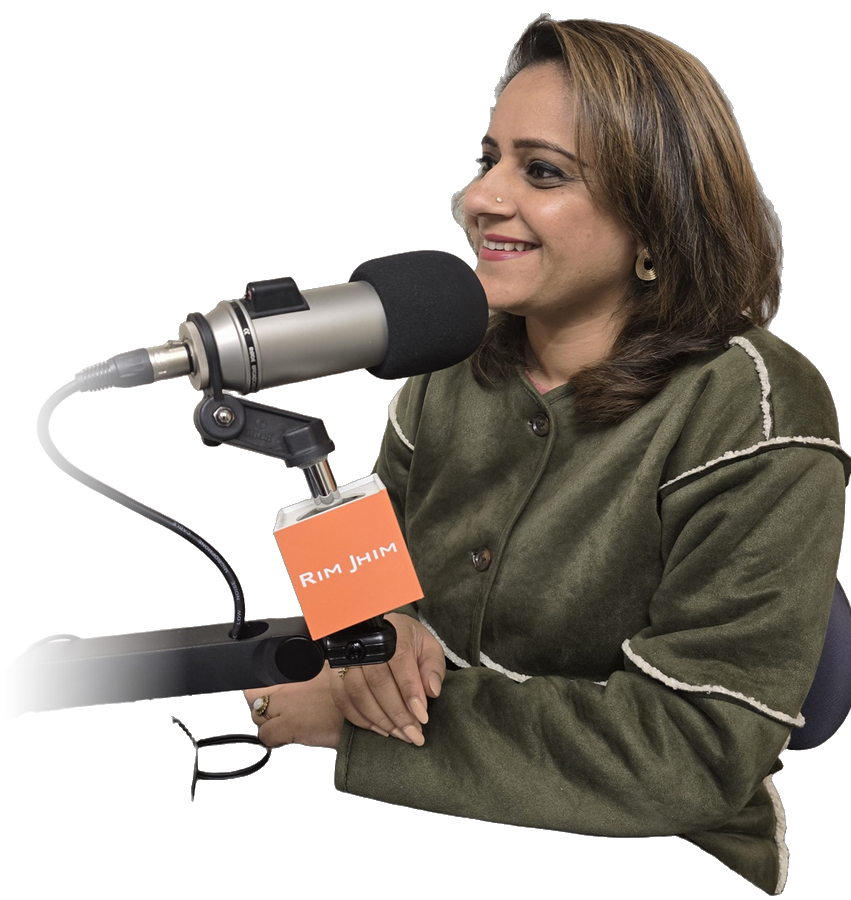
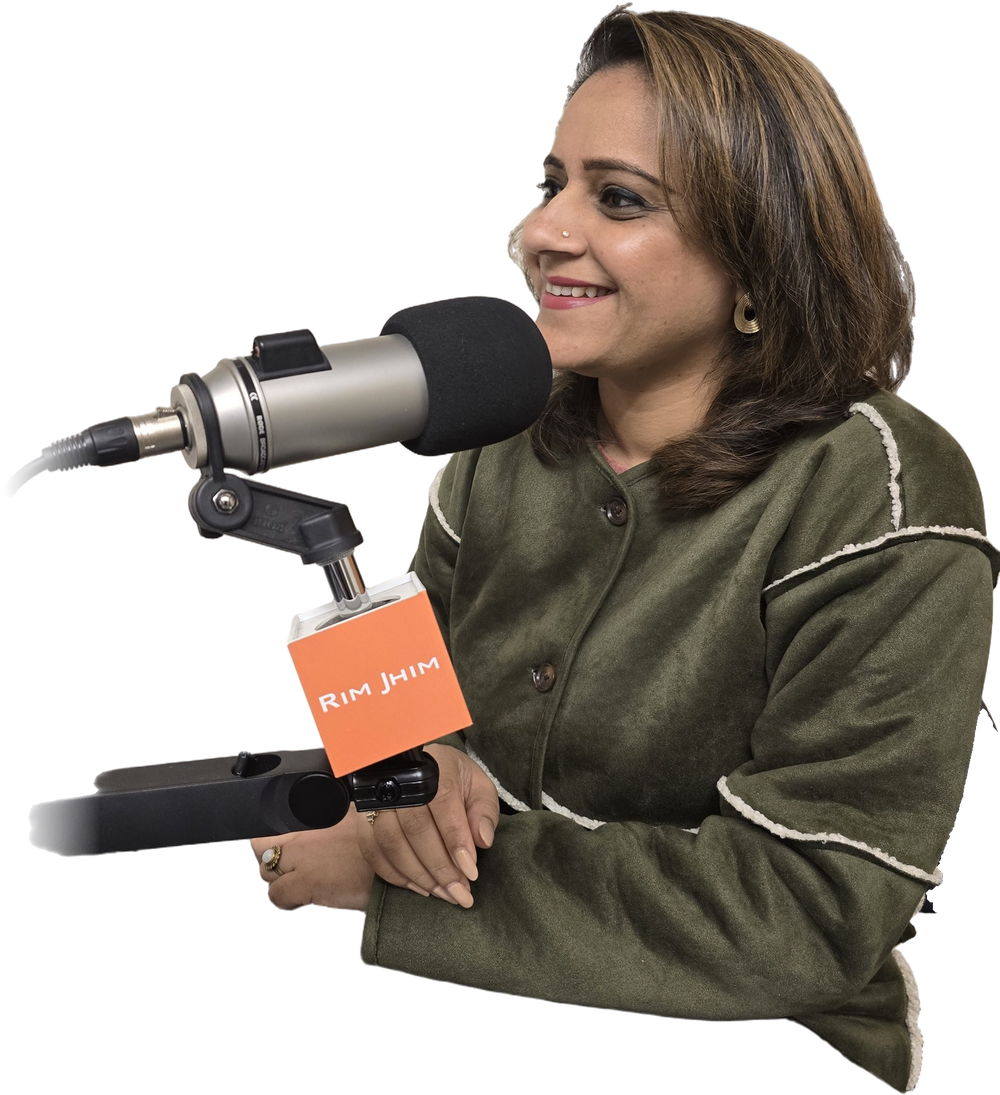
Preview v5.1: clean podcast cut-out back in footer, community copy no longer says free

diff --git a/index.html b/index.html
@@ -14,7 +14,7 @@
   <link rel="preconnect" href="https://fonts.googleapis.com">
   <link rel="preconnect" href="https://fonts.gstatic.com" crossorigin>
   <link href="https://fonts.googleapis.com/css2?family=Cormorant+Garamond:ital,wght@0,500;0,600;1,500;1,600&family=Inter:wght@400;500;600;700&family=Mrs+Saint+Delafield&display=swap" rel="stylesheet">
-  <link rel="stylesheet" href="home.css?v=17">
+  <link rel="stylesheet" href="home.css?v=18">
   <script type="application/ld+json">
   {"@context":"https://schema.org","@graph":[
     {"@type":"ProfessionalService","@id":"https://www.ashimaempowers.com/#business","name":"Ashima Empowers - Astrology & Holistic Centre","url":"https://www.ashimaempowers.com/","image":"https://www.ashimaempowers.com/assets/ashima-seated.jpg","priceRange":"$$",
@@ -235,13 +235,13 @@
 <section class="sand sec" id="community">
   <div class="wrap">
     <div class="cmty dark">
-      <div class="eyebrow">Empower Your Inner World · free on Skool</div>
+      <div class="eyebrow">Empower Your Inner World · private community</div>
       <h2 class="h2">Quiet the mind. <em>Go inward.</em></h2>
       <p class="cmty-lead">A calm, private space to slow down, go inward and grow, guided by Ashima. Meditate with her live, catch up on every replay, and grow alongside people on the same path.</p>
       <span class="cmty-rule" aria-hidden="true"></span>
-      <a class="replay" data-offer="community" href="#" target="_blank" rel="noopener" aria-label="Watch Session 1, a 75-minute guided meditation replay, free in the community">
+      <a class="replay" data-offer="community" href="#" target="_blank" rel="noopener" aria-label="Watch Session 1, a 75-minute guided meditation replay, in the community">
         <span class="replay-thumb"><img src="assets/community/session-01.jpg" alt="" loading="lazy" width="960" height="540"><i aria-hidden="true"></i><em>75 min</em></span>
-        <span class="replay-meta"><small>Now inside the community</small><b>Session 1: Guided Meditation Replay</b><span>Sit with Ashima for a full guided meditation to quiet the mind and come back to yourself. Join free, then press play.</span><u>Watch the replay →</u></span>
+        <span class="replay-meta"><small>Now inside the community</small><b>Session 1: Guided Meditation Replay</b><span>Sit with Ashima for a full guided meditation to quiet the mind and come back to yourself. Join the community, then press play.</span><u>Watch the replay →</u></span>
       </a>
       <ul class="cmty-list">
         <li><b>Guided meditation replays</b>: full recordings of every live session, ready whenever you need them</li>
@@ -253,7 +253,7 @@
       </ul>
       <div class="cmty-cta">
         <a class="btn-gold btn-arrow" data-offer="community" href="#" target="_blank" rel="noopener">Join the Community <span class="circ">→</span></a>
-        <p>Free · private group on Skool · leave anytime</p>
+        <p>Private group on Skool · leave anytime</p>
       </div>
     </div>
   </div>
@@ -290,7 +290,7 @@
           <p class="msg form-msg" role="status" style="flex-basis:100%"></p>
         </form>
       </div>
-      <div class="join-art"><div class="arch"><img src="assets/ashima-pink.jpg" alt="Ashima Gautam smiling" loading="lazy" width="900" height="1200"></div></div>
+      <div class="join-art"><div class="shape" aria-hidden="true"></div><img src="assets/ashima-cutout-speaking.png?v=5" alt="Ashima Gautam speaking on a podcast" loading="lazy" width="1000" height="1095"></div>
       <a class="promo" href="vip.html"><img src="assets/offers/vip.jpg" alt=""><div><small>Premium membership</small><b>The VIP Circle</b><span>Monthly 1:1 call + full course</span><i>Join Now →</i></div></a>
     </div>
 

diff --git a/home.css b/home.css
@@ -352,11 +352,9 @@ h1, h2, h3, p { margin: 0; }
 .join input::placeholder { color: var(--on-dark-muted); }
 .join form .btn-gold { flex: 0 0 auto; }
 .join .msg { min-height: 1.4em; margin-top: 10px; font-size: 14px; color: var(--gold); }
-.join-art { position: absolute; z-index: 1; right: clamp(48px, 7vw, 110px); top: 50%; transform: translateY(-56%); width: clamp(260px, 25vw, 350px); }
-.join-art::before { content: ""; position: absolute; inset: -40px; border-radius: 50%; background: radial-gradient(closest-side, rgba(212, 175, 97, .28), transparent 72%); }
-.arch { position: relative; aspect-ratio: 3 / 4; }
-.arch::before { content: ""; position: absolute; inset: -14px; border: 1.5px solid rgba(226, 194, 122, .75); border-radius: 999px 999px 34px 34px; }
-.arch img { position: relative; display: block; width: 100%; height: 100%; object-fit: cover; object-position: 32% 30%; border-radius: 999px 999px 24px 24px; box-shadow: 0 30px 60px -24px rgba(0, 0, 0, .6); }
+.join-art { position: absolute; right: 0; bottom: 0; top: -40px; width: 46%; z-index: 1; pointer-events: none; clip-path: inset(-200px 0 0 -400px round 0 0 34px 0); }
+.join-art .shape { position: absolute; right: 0; bottom: 0; width: 78%; height: 58%; background: var(--gold-grad); clip-path: polygon(30% 0, 100% 0, 100% 100%, 0 100%); opacity: .95; }
+.join-art img { position: absolute; right: 0; bottom: 0; width: auto; height: 92%; max-height: 600px; max-width: none; filter: drop-shadow(0 24px 40px rgba(20, 8, 32, .45)); }
 .promo { position: absolute; z-index: 3; right: -1px; bottom: -42px; display: flex; gap: 16px; align-items: center; width: 360px; padding: 14px; border-radius: var(--r-card); background: var(--white); color: var(--text); text-decoration: none; box-shadow: 0 20px 50px -20px rgba(0, 0, 0, .45), 0 0 0 1px var(--gold-line); }
 .promo img { width: 92px; height: 92px; object-fit: cover; border-radius: 12px; }
 .promo small { display: inline-block; padding: 4px 8px; border-radius: 4px; background: var(--plum); color: var(--gold); font: 600 10px/1 var(--sans); letter-spacing: .12em; text-transform: uppercase; }
@@ -371,7 +369,8 @@ h1, h2, h3, p { margin: 0; }
 .legal { border-top: 1px solid rgba(130, 96, 31, .2); padding: 22px 0 110px; font-size: 12.5px; color: var(--muted); line-height: 1.6; }
 @media (max-width: 980px) {
   .join-copy { padding: 56px 28px 40px; }
-  .join-art { position: relative; right: auto; top: auto; transform: none; width: min(300px, calc(100% - 80px)); margin: 10px auto 64px; }
+  .join-art { position: relative; top: 0; width: 100%; height: auto; padding-top: 10px; clip-path: inset(-200px 0 0 0 round 0 0 22px 0); }
+  .join-art img { position: relative; height: auto; width: 100%; max-height: none; }
   .promo { position: relative; right: auto; bottom: auto; margin: -30px auto 0; width: min(360px, calc(100% - 32px)); }
   .foot-links { grid-template-columns: 1fr 1fr; padding-top: 56px; }
   .foot-links > div:first-child { grid-column: 1 / -1; }

diff --git a/terms.html b/terms.html
@@ -12,7 +12,7 @@
   <link rel="preconnect" href="https://fonts.googleapis.com">
   <link rel="preconnect" href="https://fonts.gstatic.com" crossorigin>
   <link href="https://fonts.googleapis.com/css2?family=Cormorant+Garamond:ital,wght@0,500;0,600;1,500;1,600&family=Inter:wght@400;500;600;700&display=swap" rel="stylesheet">
-  <link rel="stylesheet" href="home.css?v=17">
+  <link rel="stylesheet" href="home.css?v=18">
   <link rel="stylesheet" href="pages.css?v=2">
 </head>
 <body>
@@ -64,7 +64,8 @@
         <li><b>Consultations</b>: the 10-minute One-Question Consultation and the 1-Hour Private Consultation, by video or in person in Surrey.</li>
         <li><b>1:1 coaching</b>: by application, starting with a paid 10 or 20-minute discovery call.</li>
         <li><b>Memberships</b>: the VIP Circle and Empower Your Inner World, billed monthly.</li>
-        <li><b>Free resources</b>: the Calm Mind Reset and the free community on Skool.</li>
+        <li><b>Free resources</b>: the 5-Minute Calm Mind Reset.</li>
+        <li><b>Community</b>: Empower Your Inner World, Ashima's private community on Skool.</li>
       </ul>
       <p>Readings describe tendencies and timing. We do not guarantee any particular outcome, and your choices remain your own.</p>
 

diff --git a/coaching.html b/coaching.html
@@ -12,7 +12,7 @@
   <link rel="preconnect" href="https://fonts.googleapis.com">
   <link rel="preconnect" href="https://fonts.gstatic.com" crossorigin>
   <link href="https://fonts.googleapis.com/css2?family=Cormorant+Garamond:ital,wght@0,500;0,600;1,500;1,600&family=Inter:wght@400;500;600;700&display=swap" rel="stylesheet">
-  <link rel="stylesheet" href="home.css?v=17">
+  <link rel="stylesheet" href="home.css?v=18">
   <link rel="stylesheet" href="pages.css?v=2">
 </head>
 <body>

diff --git a/privacy.html b/privacy.html
@@ -12,7 +12,7 @@
   <link rel="preconnect" href="https://fonts.googleapis.com">
   <link rel="preconnect" href="https://fonts.gstatic.com" crossorigin>
   <link href="https://fonts.googleapis.com/css2?family=Cormorant+Garamond:ital,wght@0,500;0,600;1,500;1,600&family=Inter:wght@400;500;600;700&display=swap" rel="stylesheet">
-  <link rel="stylesheet" href="home.css?v=17">
+  <link rel="stylesheet" href="home.css?v=18">
   <link rel="stylesheet" href="pages.css?v=2">
 </head>
 <body>

diff --git a/refunds.html b/refunds.html
@@ -12,7 +12,7 @@
   <link rel="preconnect" href="https://fonts.googleapis.com">
   <link rel="preconnect" href="https://fonts.gstatic.com" crossorigin>
   <link href="https://fonts.googleapis.com/css2?family=Cormorant+Garamond:ital,wght@0,500;0,600;1,500;1,600&family=Inter:wght@400;500;600;700&display=swap" rel="stylesheet">
-  <link rel="stylesheet" href="home.css?v=17">
+  <link rel="stylesheet" href="home.css?v=18">
   <link rel="stylesheet" href="pages.css?v=2">
 </head>
 <body>

diff --git a/vip.html b/vip.html
@@ -12,7 +12,7 @@
   <link rel="preconnect" href="https://fonts.googleapis.com">
   <link rel="preconnect" href="https://fonts.gstatic.com" crossorigin>
   <link href="https://fonts.googleapis.com/css2?family=Cormorant+Garamond:ital,wght@0,500;0,600;1,500;1,600&family=Inter:wght@400;500;600;700&display=swap" rel="stylesheet">
-  <link rel="stylesheet" href="home.css?v=17">
+  <link rel="stylesheet" href="home.css?v=18">
   <link rel="stylesheet" href="pages.css?v=2">
 </head>
 <body>
